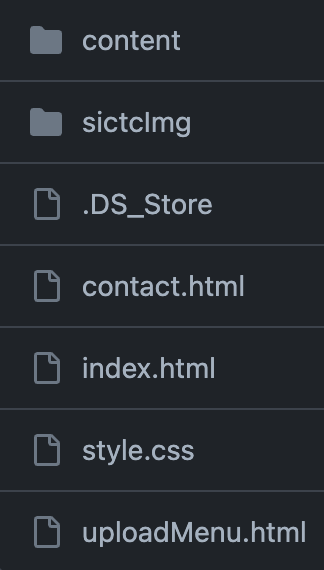
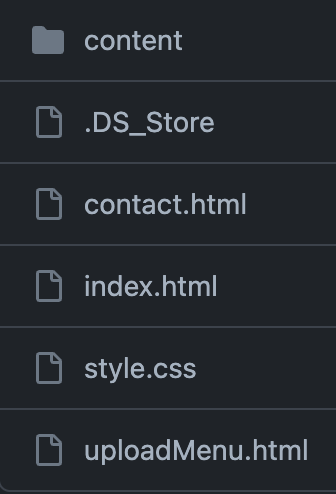
changed ignore

diff --git a/README.md b/README.md
@@ -6,8 +6,9 @@ Website for The Lunchbox - SICTC's Culinary Program's Restaurant
 <img src="mdimages/fileList.png" height="250px" width="140px"> 
 
 ### Inside Public Folder
-The 'public' folder contains the HTML files, as well as the CSS file.
-The 'content' and 'sictcImg' folders contain the images
+The 'public' folder contains the HTML files, as well as the CSS file. <br>
+The 'content' folder contains the images used within the website. <br>
+The 'DS_Store' is a file that can be seen throughout the project and can be ignored.
 <img src="mdimages/publicFileList.png" height="250px" width="140px"> 
 
 
